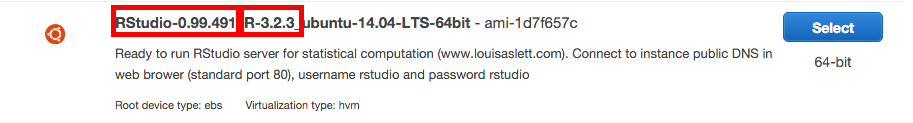
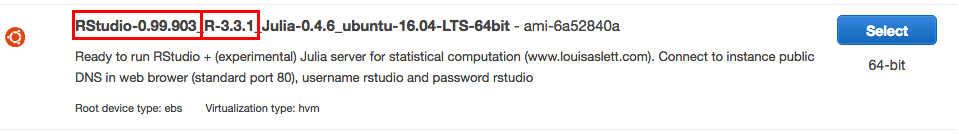
rstudio cloud

diff --git a/_posts/2016-09-13-rstudio-cloud-1.md b/_posts/2016-09-13-rstudio-cloud-1.md
@@ -3,15 +3,15 @@ layout: post
 title: "RStudio in the Cloud I: Amazon Web Services"
 published: true
 excerpt: >
-  How to quickly get a cloud-based, GIS-ready instance of RStudio Server running on an Amazon
-  Web Services EC2 instance.
+  Detailed instructions for how to quickly get a cloud-based, tidyverse-ready 
+  instance of RStudio Server running on an Amazon Web Services EC2 instance.
 category: r
 tags: r gis cloud
 ---
 
 [Amazon Web Services](http://aws.amazon.com) (AWS) is a platform that offers a bewildering array of cloud computing services. Their flagship product is [Elastic Compute Cloud](https://aws.amazon.com/ec2/) (EC2) which gives users the ability to quickly deploy virtual computers (called instances) in the cloud. The specifications (number of cores, RAM, and storage) of an instance can be tailored to the size and complexity of the task, and users pay an hourly rate that depends on the computing power of the instance. 
 
-The diversity and flexibility of AWS makes it extremely powerful; however, it also makes simple tasks daunting and confusing. With this in mind, this tutorial will focus on a single, well-defined goal: setting up RStudio Server, with spatial analysis and mapping packages, on an AWS EC2 instance so that RStudio can be accessed via the browser from anywhere. The only prerequisite is an AWS account, which you can [sign up for](http://aws.amazon.com) if you haven't already. A credit card is required to sign up, but you will only be charged for computing time you use, and Amazon offers an excellent [free tier](https://aws.amazon.com/free/) that is suitable for small jobs.
+The diversity and flexibility of AWS makes it extremely powerful; however, it also makes simple tasks daunting and confusing. With this in mind, this tutorial will focus on a single, well-defined goal: setting up RStudio Server--with Hadley Wickham's [Tidyverse](https://cran.rstudio.com/web/packages/tidyverse/) of packages installed--on an AWS EC2 instance so that RStudio can be accessed via the browser from anywhere. The only prerequisite is an AWS account, which you can [sign up for](http://aws.amazon.com) if you haven't already. A credit card is required to sign up, but you will only be charged for computing time you use, and Amazon offers an excellent [free tier](https://aws.amazon.com/free/) that is suitable for small jobs.
 
 This is part I in a series of posts about using RStudio on AWS.
 
@@ -48,7 +48,7 @@ To create a key pair from the EC2 dashboard, select *Key Pairs* from the left pa
 
 <img src="/img/rstudio-cloud/key-pair.png" style="display: block; margin: auto;" />
 
-Your browser will now download a file with a `.pem` extension. This is your private key and should be stored in a secure location. **Important: If you loose your private key you won't be able to access your EC2 instance; if someone else gets ahold of your private key they will be able to gain access to your instance. Be careful with it!**
+Your browser will now download a file with a `.pem` extension. This is your private key and should be stored in a secure location. **Important: If you lose your private key you won't be able to access your EC2 instance; if someone else gets ahold of your private key they will be able to gain access to your instance. Be careful with it!**
 
 ## Launching the instance
 
@@ -58,7 +58,7 @@ To launch an EC2 instance, select *Instance* on the left panel, then click the *
 
 First, you'll be presented with a list of **Amazon Machine Images (AMIs)**. These define the base operating system and software that will be automatically installed on your instance. Of particular interest are the **Community AMIs**, where other AWS users have posted custom AMIs that you can use. 
 
-[Louis Aslett](http://www.louisaslett.com/RStudio_AMI/) kindly maintains an RStudio AMI that I suggest using. To access it, click on *Community AMIs*, then search for "rstudio aslett". You'll see several options, pick the one with the most current RStudio and R versions, for me these are `0.99.491` and `3.2.3` respectively. Click the *Select* button next to this AMI.
+[Louis Aslett](http://www.louisaslett.com/RStudio_AMI/) kindly maintains an RStudio AMI that I suggest using. To access it, click on *Community AMIs*, then search for "rstudio aslett". You'll see several options, pick the one with the most current RStudio and R versions, for me these are `0.99.903` and `3.3.1` respectively. Click the *Select* button next to this AMI.
 
 <img src="/img/rstudio-cloud/ami.png" style="display: block; margin: auto;" />
 
@@ -68,43 +68,17 @@ Now you'll be prompted to select an instance type, this specifies the characteri
 
 <img src="/img/rstudio-cloud/instance-type.png" style="display: block; margin: auto;" />
 
-### Step 3: Configure Instance Details
+### Step 3: Configure Instance Details (Optional)
 
-On the next page, you're asked to configure the instance. Leave the top portion as is, but scroll down to the *Advanced* section and click on it to expend it. You'll now see a text box titled *User Data*, which allows you to enter a shell script that will be run as the instance is created. By entering commands here to install desired software (or R packages) you can reduce the amount of configuration you'll have to do after the instance is created.
+On the next page, you're asked to configure the instance. You can leave all the settings at their default values. However, if you scroll down to the *Advanced* section and click on it to expand it. You'll now see a text box titled *User Data*, which allows you to enter a shell script that will be run as the instance is created. Advanced users can enter commands here to install desired software or configure settings.
 
 <img src="/img/rstudio-cloud/shell-script.png" style="display: block; margin: auto;" />
 
-The following script installs **AWS Command-line Interface**, configures **git**, installs [**littler**](dirk.eddelbuettel.com/code/littler.html) (a better command line interface for R),  and installs a variety of useful **R packages**, some from the Hadleyverse and some for spatial analysis and mapping. This could also be done interactively *after* the instance is already deployed; however, I like to encode as much of the setup as possible into a script since it allows me to quickly start up new instances with the same configuration.
-
-Before running this script, you should make the following modifications:
-
-- Enter your own name and email address to use for git
-- Modify the list of packages to include those most useful to you
-- Modify ther version number of RStudio Server to reference the most recent version,
-available via the [RStudio website](https://www.rstudio.com/products/rstudio/download-server/)
-
-Once you've customized this script, I suggest saving it somewhere for later use. To use this script, just paste it into the *User Data* text box.
+For example, if you want to install [**littler**](dirk.eddelbuettel.com/code/littler.html) (a better command line interface for R) and a variety of useful **R packages** from the Hadleyverse, copy and paste the following script into the *User Data* text box. Note this can also be done interactively *after* the instance is already deployed, so this step is totally optional. However, somtimes I like to encode as much of the setup as possible into a script since it allows me to quickly start up new instances with the same configuration.
 
 ```bash
 #!/bin/bash
 apt-get update -y
-
-# Install AWS Command Line Utilities
-apt-get install -y awscli
-
-# Update RStudio Server
-# Get most current version from https://www.rstudio.com/products/rstudio/download-server/
-apt-get -y install gdebi-core
-wget https://download2.rstudio.org/rstudio-server-0.99.891-amd64.deb
-gdebi -n rstudio-server-0.99.891-amd64.deb
-rm -f rstudio-server-0.99.891-amd64.deb
-
-
-# Configure git for RStudio
-sudo -H -u rstudio bash -c "git config --global user.name 'Your Name'" # CHANGE
-sudo -H -u rstudio bash -c "git config --global user.email 'your@email.com'" # CHANGE
-sudo -H -u rstudio bash -c "git config --global credential.helper 'cache --timeout=10000000'"
-
 # Install littler
 R -e 'install.packages("littler")'
 ln -s /usr/local/lib/R/site-library/littler/bin/r /usr/local/bin/r
@@ -114,10 +88,9 @@ ln -s /usr/local/lib/R/site-library/littler/examples/installGithub.r /usr/local/
 install.r docopt
 
 # Install packages
-# Hadleyverse
-install2.r devtools dplyr ggplot2 lubridate magrittr rvest readr tidyr shiny
-# Spatial
-install2.r sp raster rgdal rgeos geosphere maps maptools rasterVis spatstat
+# Tidyverse: dplyr, tidyr, purrr, etc.
+# https://github.com/hadley/tidyverse
+install2.r devtools tidyverse
 rm -rf /tmp/downloaded_packages/ /tmp/*.rd
 ```
 
@@ -143,7 +116,9 @@ AWS will now boot up your instance, which may take several minutes. Return to th
 
 <img src="/img/rstudio-cloud/instance-ip.png" style="display: block; margin: auto;" />
 
-# Connecting to an EC2 instance via SSH
+# Connecting to an EC2 instance via SSH (Optional)
+
+*If you're on a Windows machine and don't have access to an SSH client you can skip this section. However, you'll likely want to get set up with SSH for more advance use of your EC2 instance.*
 
 To further configure the instance you've just created, or carry out any administrative tasks, you'll need to remotely log into it with SSH. Open a terminal window and enter the following command, making sure to substitute in the correct path to the private key (i.e. `.pem` file) on your local machine and the public DNS of your instance, which is available via the *Instances* page in the *EC2 Console* (see image above).
 
@@ -174,7 +149,7 @@ Then run the above `ssh` command. Note in the `ssh` command that you've connecte
 
 ## Changing the RStudio password
 
-The AMI we've used includes [RStudio Server](https://www.rstudio.com/products/rstudio/), which provides a browser based interface to RStudio running on the EC2 instance. To access RStudio Serve in the browser you'll need to log on with any username/password combination that exist on the EC2 instance. The `ubuntu` user that we used to log on via SSH is not suitable since it has no password. Instead, this AMI comes with an `rstudio` user that has a default password `rstudio`.
+The AMI we've used includes [RStudio Server](https://www.rstudio.com/products/rstudio/), which provides a browser based interface to RStudio running on the EC2 instance. To access RStudio Serve in the browser you'll need to log on with any username/password combination that exists on the EC2 instance. The `ubuntu` user that we used to log on via SSH is not suitable since it has no password. Instead, this AMI comes with an `rstudio` user that has a default password `rstudio`.
 
 To change the default password, log into the instance via SSH as described above, enter the following command, and follow the prompts.
 
@@ -184,10 +159,16 @@ sudo passwd rstudio
 
 # Connecting to RStudio
 
-We've now done all the legwork and it's time for the fun stuff: connecting to RStudio via the browser. Just open your favourite web browser and enter the public DNS of your instance, which is available via the *Instances* page in the *EC2 Console*. Then enter `rstudio` as the username, and the password you just set.
+We've now done all the legwork and it's time for the fun stuff: connecting to RStudio via the browser. Just open your favourite web browser and enter the public DNS of your instance, which is available via the *Instances* page in the *EC2 Console*. Then enter `rstudio` as the username, and the password you just set. If you didn't change the password via SSH use the default password: `rstudio`.
 
 <img src="/img/rstudio-cloud/sign-in.png" style="display: block; margin: auto;" />
 
 Ta-Dah! You now have access to RStudio running on the EC2 instance through your browser. Play around with it and you'll see it functions almost identically to your typical desktop version of RStudio.
 
 <img src="/img/rstudio-cloud/rstudio.png" style="display: block; margin: auto;" />
+
+Finally, if you didn't change your password via SSH you can do so now through R. Just enter the following command and follow the prompts:
+
+```
+RStudioAMI::passwd()
+```

diff --git a/_posts/xxxx-nse.md b/_posts/xxxx-nse.md
@@ -1,0 +1,39 @@
+---
+layout: post
+title: "Grappling with Non-standard Evaluation"
+published: true
+excerpt: >
+  NSE
+category: r
+tags: r
+---
+
+## `substitude()`
+
+
+```r
+my_sub <- function(x, y, z) {
+  a <- "a"
+  substitute(x + y + z + a + b)
+}
+b <- "b"
+c <- "c"
+my_sub(my_variable, sqrt(4), c)
+#> my_variable + sqrt(4) + c + "a" + b
+```
+
+
+## `quote()`
+
+
+```r
+my_quote <- function(x, y, z) {
+  a <- "a"
+  quote(print(x + y + z + a + b))
+}
+b <- "b"
+c <- "c"
+my_quote(my_variable, sqrt(4), c)
+#> print(x + y + z + a + b)
+```
+
